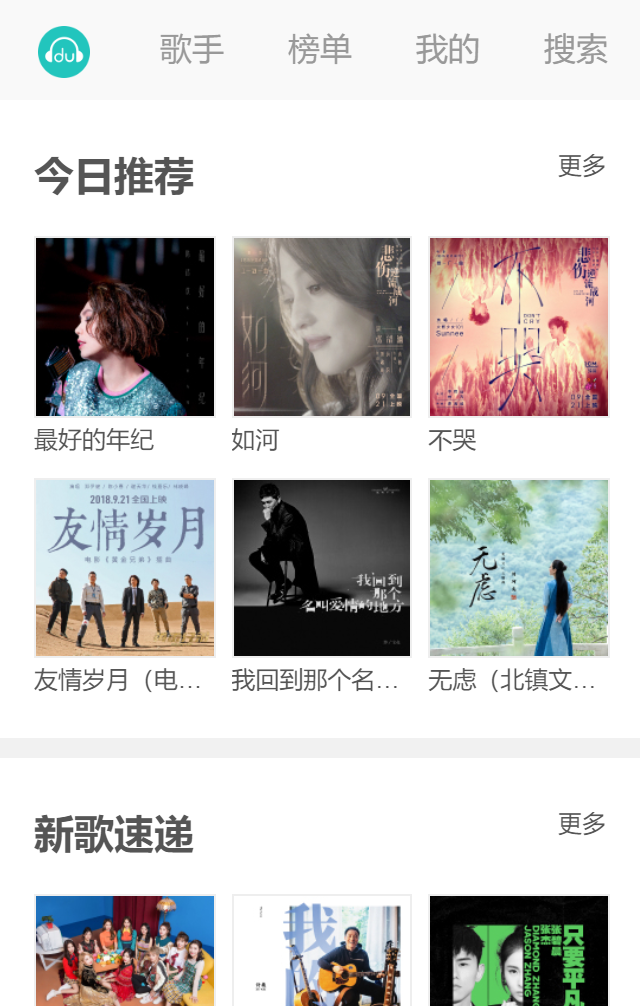
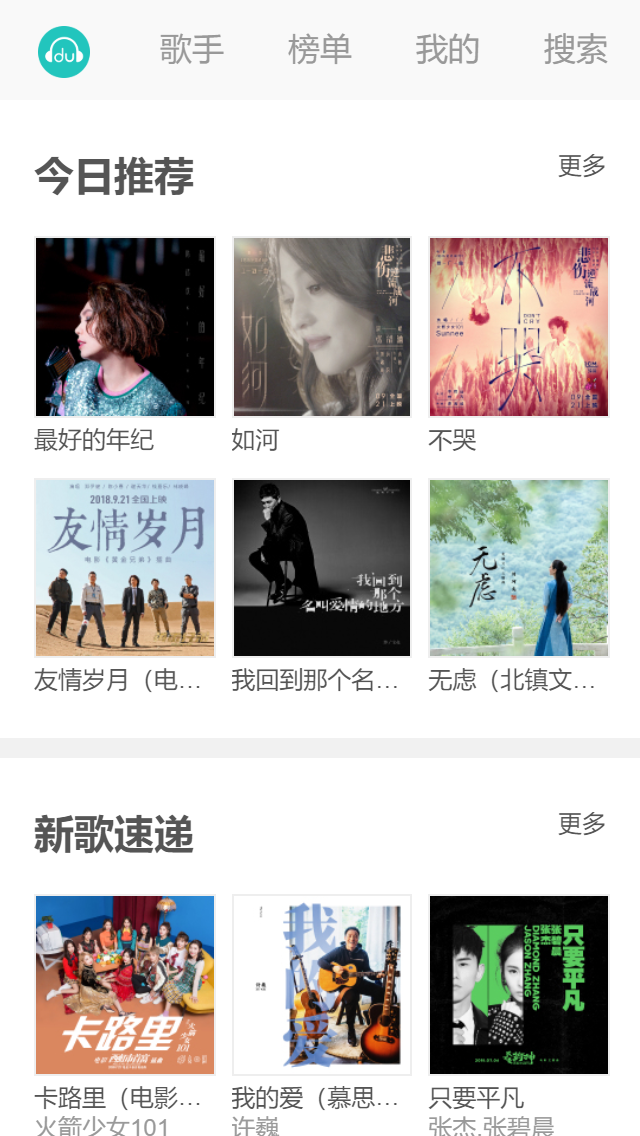
'增加效果图'

diff --git a/README.md b/README.md
@@ -13,10 +13,9 @@ cnpm run dev
 ```
 
 效果图
-
-![首页](https://github.com/f1ybird/vue-music/master/screenshot/home.png)
-![歌手](https://github.com/f1ybird/vue-music/master/screenshot/artists.png)
-![搜索](https://github.com/f1ybird/vue-music/master/screenshot/search.png)
+![首页](https://raw.githubusercontent.com/f1ybird/vue-music/master/src/assets/screenshot/home.png)
+![歌手](https://raw.githubusercontent.com/f1ybird/vue-music/master/src/assets/screenshot/artists.png)
+![搜索](https://raw.githubusercontent.com/f1ybird/vue-music/master/src/assets/screenshot/search.png)
 
 免费api
 - 豆瓣电影top250  http://api.douban.com/v2/movie/top250
